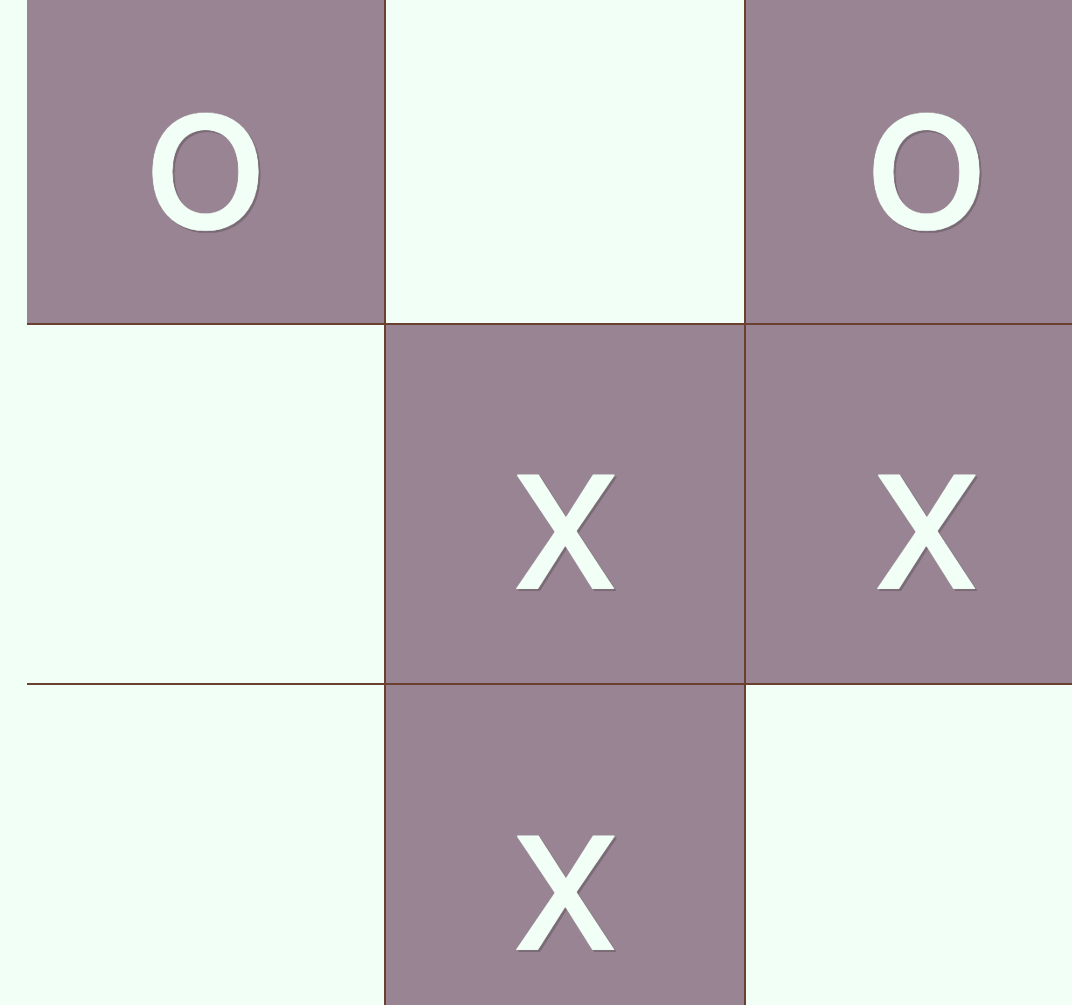
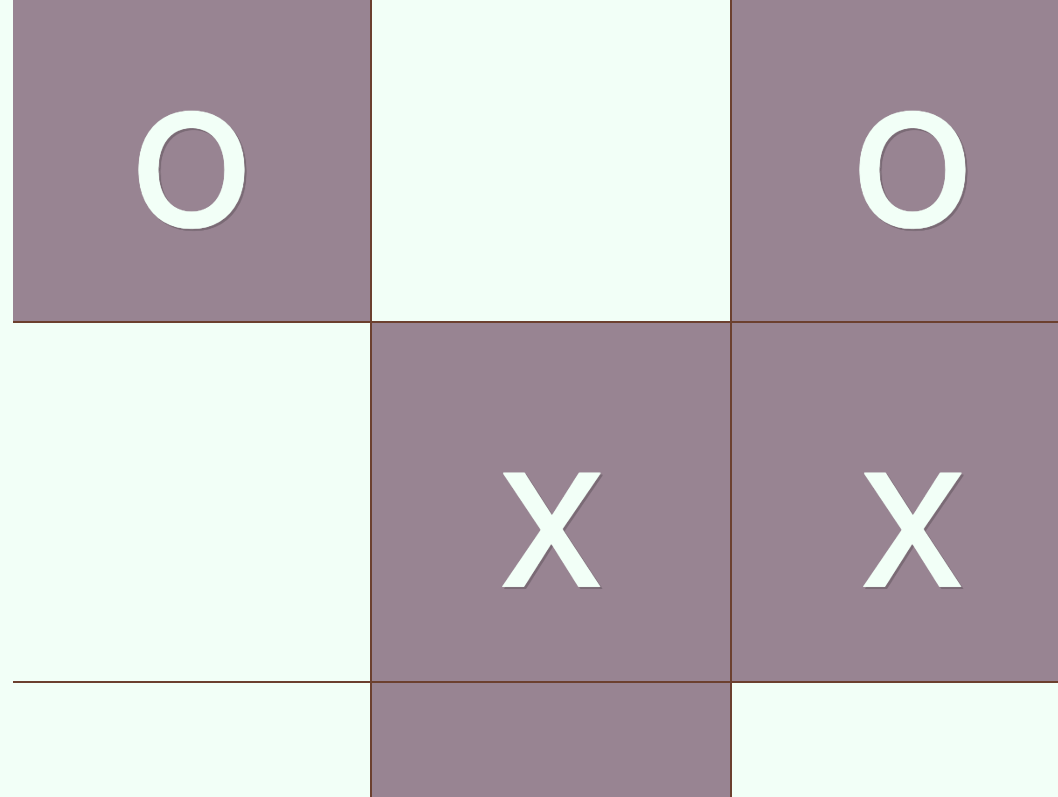
replace work004 imgs

Changed region(s): [[0.0, 0.0, 1.0, 1.0], [0.811, 0.0903, 0.9357, 0.3011], [0.4679, 0.813, 0.5926, 0.9636]]

diff --git a/work004.html b/work004.html
@@ -62,7 +62,7 @@
   <div class="container">
     <div class="row">
       <div class="col-xs-12 header-img">
-        <img src="./assets/images/work001-01.jpg" class="img-responsive" alt="">
+        <img src="./assets/images/ttt-01.png" class="img-responsive" alt="">
         <div class="card-container">
           <div class="text-center">
             <h1 class="h2">004 : Tic-Tac-Toe</h1>
@@ -81,12 +81,12 @@
       <div class="col-md-8 col-md-offset-2 section-container-spacer">
         <div class="row">
           <div class="col-xs-12 col-md-6">
-            <img src="./assets/images/work001-02.jpg" class="img-responsive" alt="">
-            <p>Menphis skyline</p>
+            <img src="./assets/images/work004-01.png" class="img-responsive" alt="">
+            <p>Game in Progress</p>
           </div>
           <div class="col-xs-12 col-md-6">
-            <img src="./assets/images/work001-03.jpg" class="img-responsive" alt="">
-            <p>Menphis skyline</p>
+            <img src="./assets/images/ttt-03.png" class="img-responsive" alt="">
+            <p>Game Counter</p>
           </div>
         </div>
       </div>
